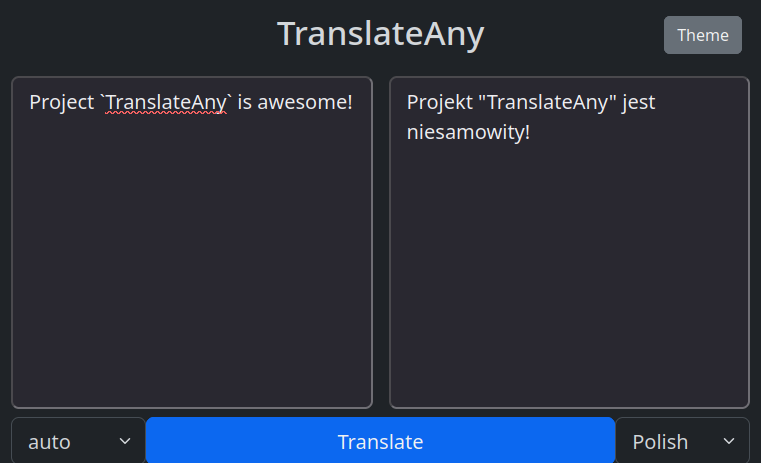
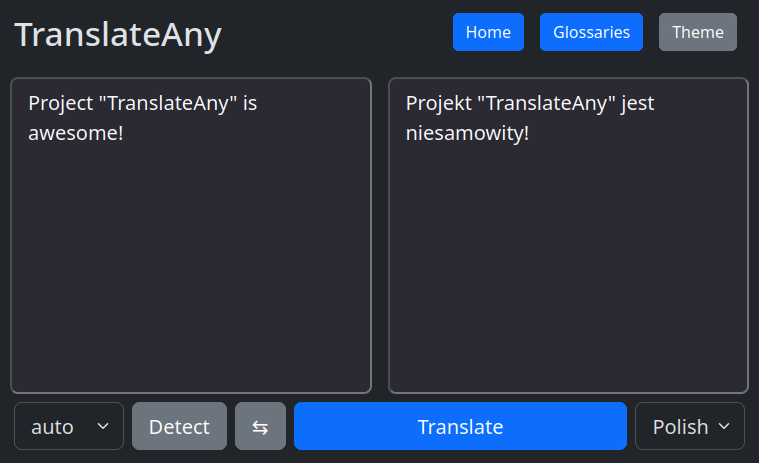
add detect and swap buttons

diff --git a/app/Front/front.view.php b/app/Front/front.view.php
@@ -7,14 +7,20 @@
     </div>
     <div class="row mt-2">
         <div class="col d-flex justify-content-around">
-            <select id="source" class="form-select form-select-lg w-25" aria-label="Source Language">
+            <select id="source" class="form-select form-select-lg w-25 mx-1" aria-label="Source Language">
                 <option value="auto">auto</option>
                 <x-template :foreach="App\System\Language::alphabetically() as $language">
                     <option value="{{ $language->lower() }}">{{ $language->value }}</option>
                 </x-template>
             </select>
-            <button id="translate" class="btn btn-primary btn-lg w-100 mx-3">Translate</button>
-            <select id="target" class="form-select form-select-lg w-25" aria-label="Target Language">
+            <button id="detect" class="btn btn-secondary btn-lg mx-1">
+                Detect
+            </button>
+            <button id="swap" class="btn btn-secondary btn-lg mx-1">
+                &#8646;
+            </button>
+            <button id="translate" class="btn btn-primary btn-lg w-100 mx-1">Translate</button>
+            <select id="target" class="form-select form-select-lg w-25 mx-1" aria-label="Target Language">
                 <x-template :foreach="App\System\Language::alphabetically() as $language">
                     <option value="{{ $language->lower() }}">{{ $language->value }}</option>
                 </x-template>
@@ -29,22 +35,25 @@
             const translateButton = document.getElementById('translate');
             const sourceSelect = document.getElementById('source');
             const targetSelect = document.getElementById('target');
+            const swapButton = document.getElementById('swap');
+            const detectButton = document.getElementById('detect');
 
-            init();
             translateButton.addEventListener('click', translate);
             input.addEventListener('input', saveText);
             output.addEventListener('input', saveText);
             sourceSelect.addEventListener('change', saveLanguages);
             targetSelect.addEventListener('change', saveLanguages);
+            swapButton.addEventListener('click', swapLanguages);
+            detectButton.addEventListener('click', detect);
+
+            init();
 
             function translate() {
-                const inputText = input.value;
+                const inputText = input.value.trim();
                 const sourceLang = sourceSelect.value;
                 const targetLang = targetSelect.value;
 
-                if (inputText.trim() === '') {
-                    alert('Please enter text to translate.');
-
+                if (inputText === '') {
                     return;
                 }
 
@@ -124,6 +133,60 @@
 
                 localStorage.setItem('sourceLang', sourceLang);
                 localStorage.setItem('targetLang', targetLang);
+            }
+
+            function swapLanguages() {
+                const sourceLang = sourceSelect.value;
+
+                if (sourceLang === 'auto') {
+                    detect().then(() => {
+                        doSwap();
+                    });
+                } else {
+                    doSwap();
+                }
+            }
+
+            function doSwap() {
+                const sourceLang = sourceSelect.value;
+                const targetLang = targetSelect.value;
+                sourceSelect.value = targetLang;
+                targetSelect.value = sourceLang;
+
+                const tempText = input.value;
+                input.value = output.value;
+                output.value = tempText;
+
+                saveLanguages();
+            }
+
+            function detect() {
+                const inputText = input.value.trim();
+                detectButton.disabled = true;
+
+                if (inputText === '') {
+                    return;
+                }
+
+                return fetch('/libre/detect', {
+                        method: 'POST',
+                        headers: {
+                            'Content-Type': 'application/json'
+                        },
+                        body: JSON.stringify({
+                            q: inputText
+                        })
+                    })
+                    .then(response => response.json())
+                    .then(data => {
+                        if (data[0]) {
+                            sourceSelect.value = data[0].language;
+
+                            saveLanguages();
+                        }
+                    }).finally(() => {
+                        detectButton.disabled = false;
+                    });
             }
         </script>
     </x-slot>
